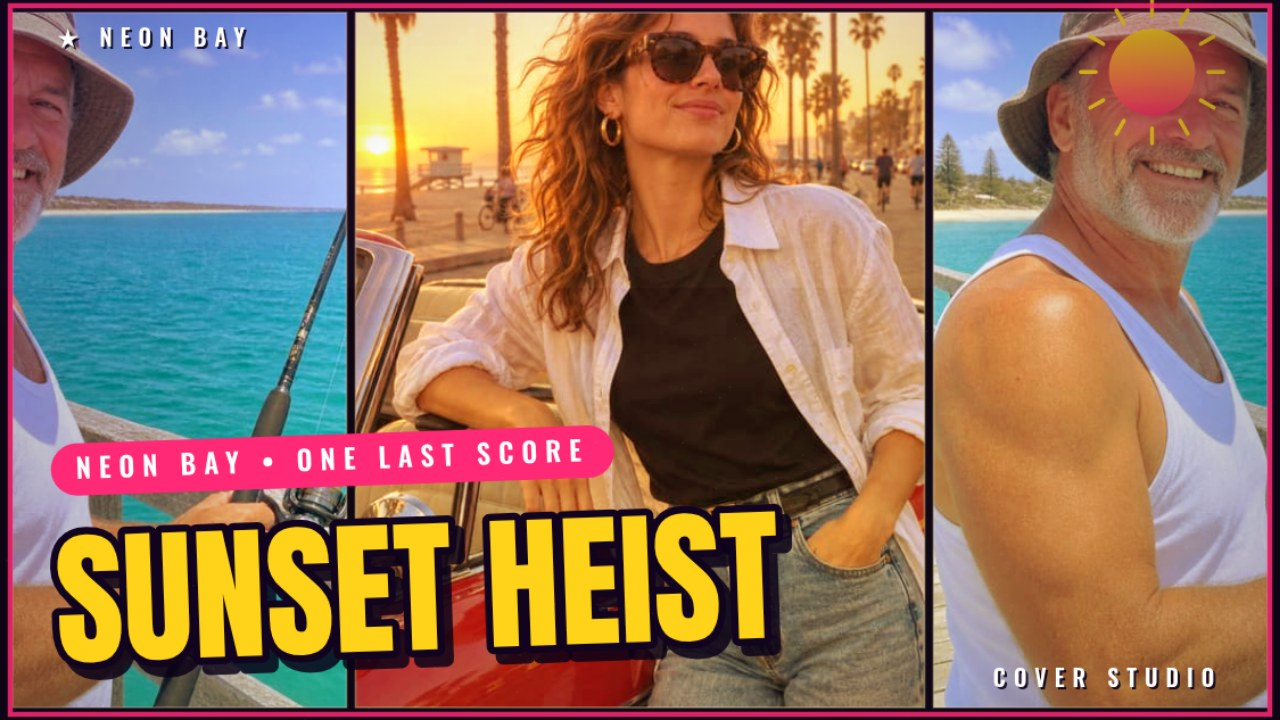
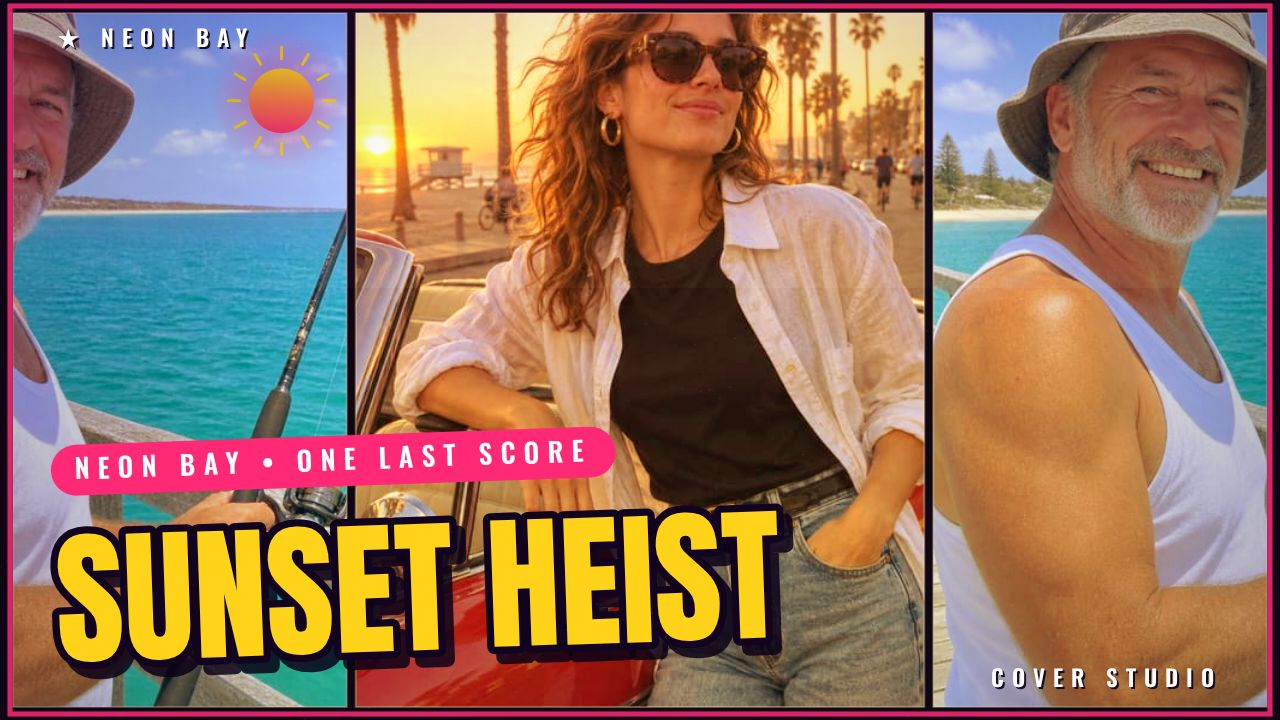
Move sun sticker off faces into the left panel sky
The retro sun sat at the top-right corner (0.90W, 0.10H), right on the
right panel man's forehead and hat brim in the wide and square covers.
Move it to the sky of the left panel (0.22W, 0.14H) and shrink it
(r 0.06 -> 0.045 of the short side); rays shrink with it. Nothing else
changes: same layouts, captions, grades, and export path. Screenshots
retaken in headless Chromium (?shot=cover/editor) and verified by eye.

diff --git a/app/src/cover.js b/app/src/cover.js
@@ -199,12 +199,14 @@ export function drawHalftone(ctx, W, H, color) {
   ctx.restore();
 }
 
-// Retro sun with rays, tucked into the top-right corner as a small sticker
-// so it never sits on a face in the middle of a panel.
+// Retro sun with rays, tucked into the sky of the left panel as a small
+// sticker: the right panel's top is usually a face (hat brim / forehead),
+// so the old top-right spot pressed the sun onto it. The left panel's sky
+// sits clear of the corner badge and of the faces in the sample photos.
 export function drawSunRays(ctx, W, H, grade) {
-  const cx = W * 0.9;
-  const cy = H * 0.1;
-  const r = Math.min(W, H) * 0.06;
+  const cx = W * 0.22;
+  const cy = H * 0.14;
+  const r = Math.min(W, H) * 0.045;
   ctx.save();
   ctx.globalAlpha = 0.9;
   const glow = ctx.createRadialGradient(cx, cy, r * 0.2, cx, cy, r * 2.2);
